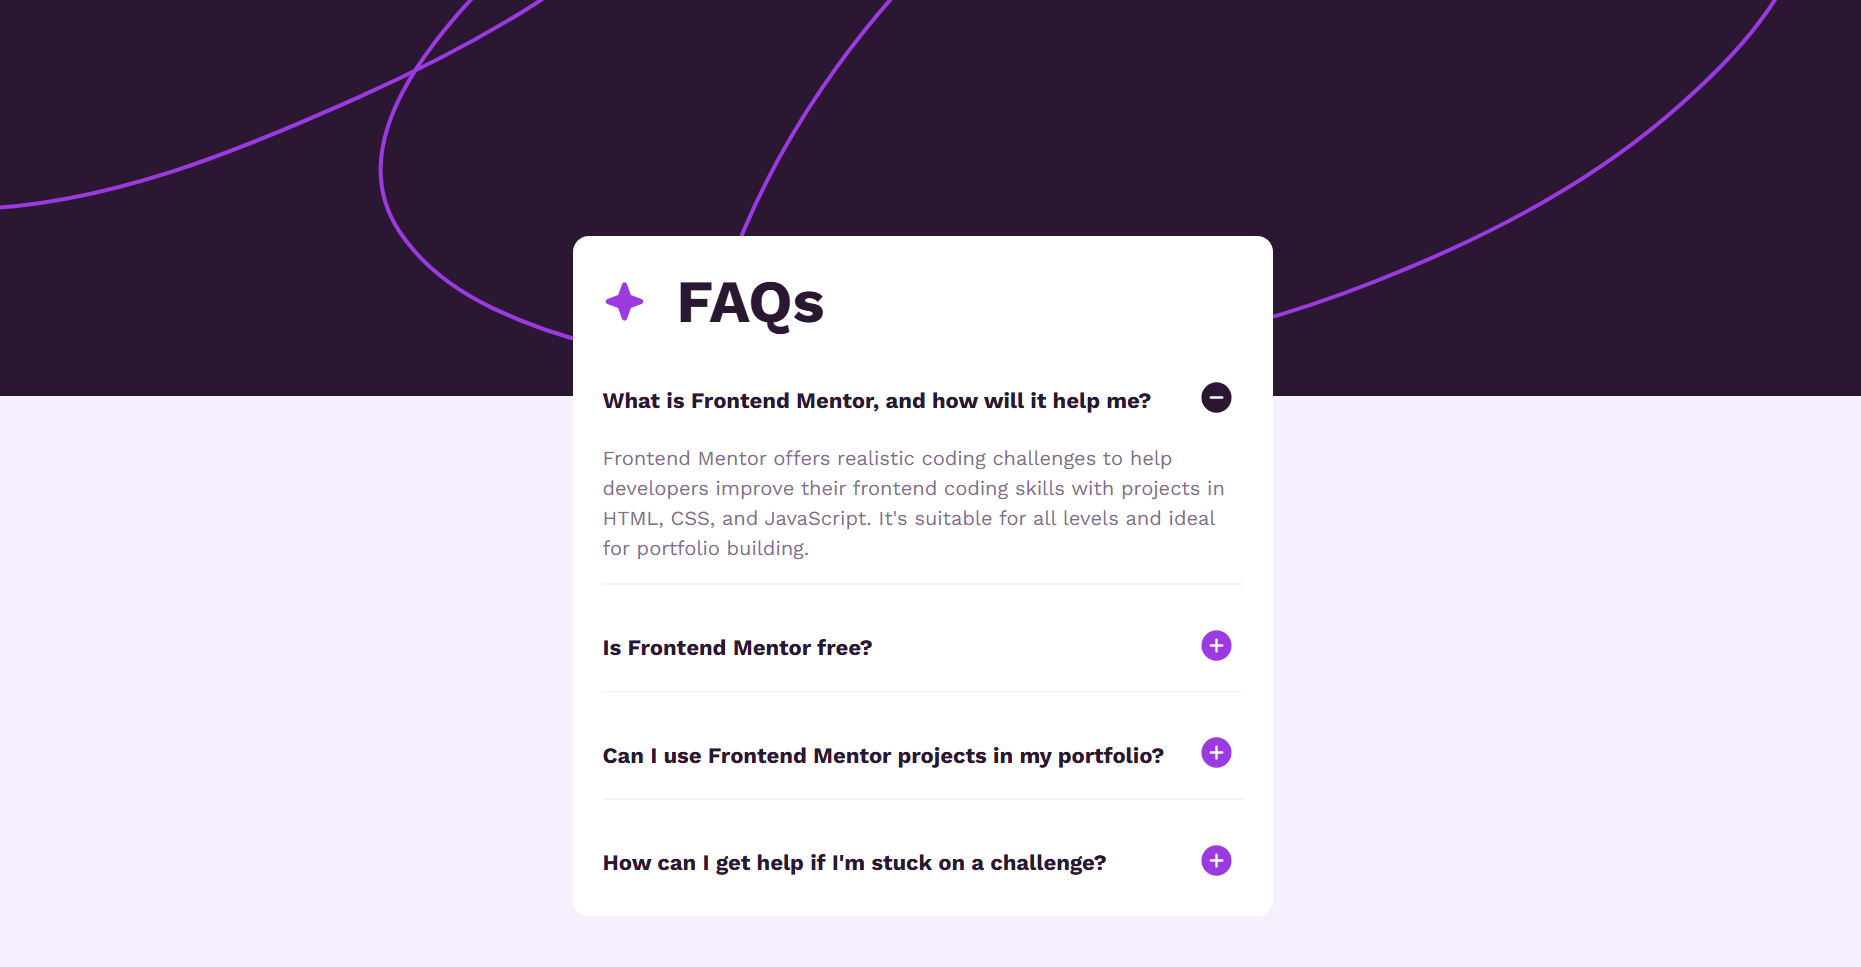
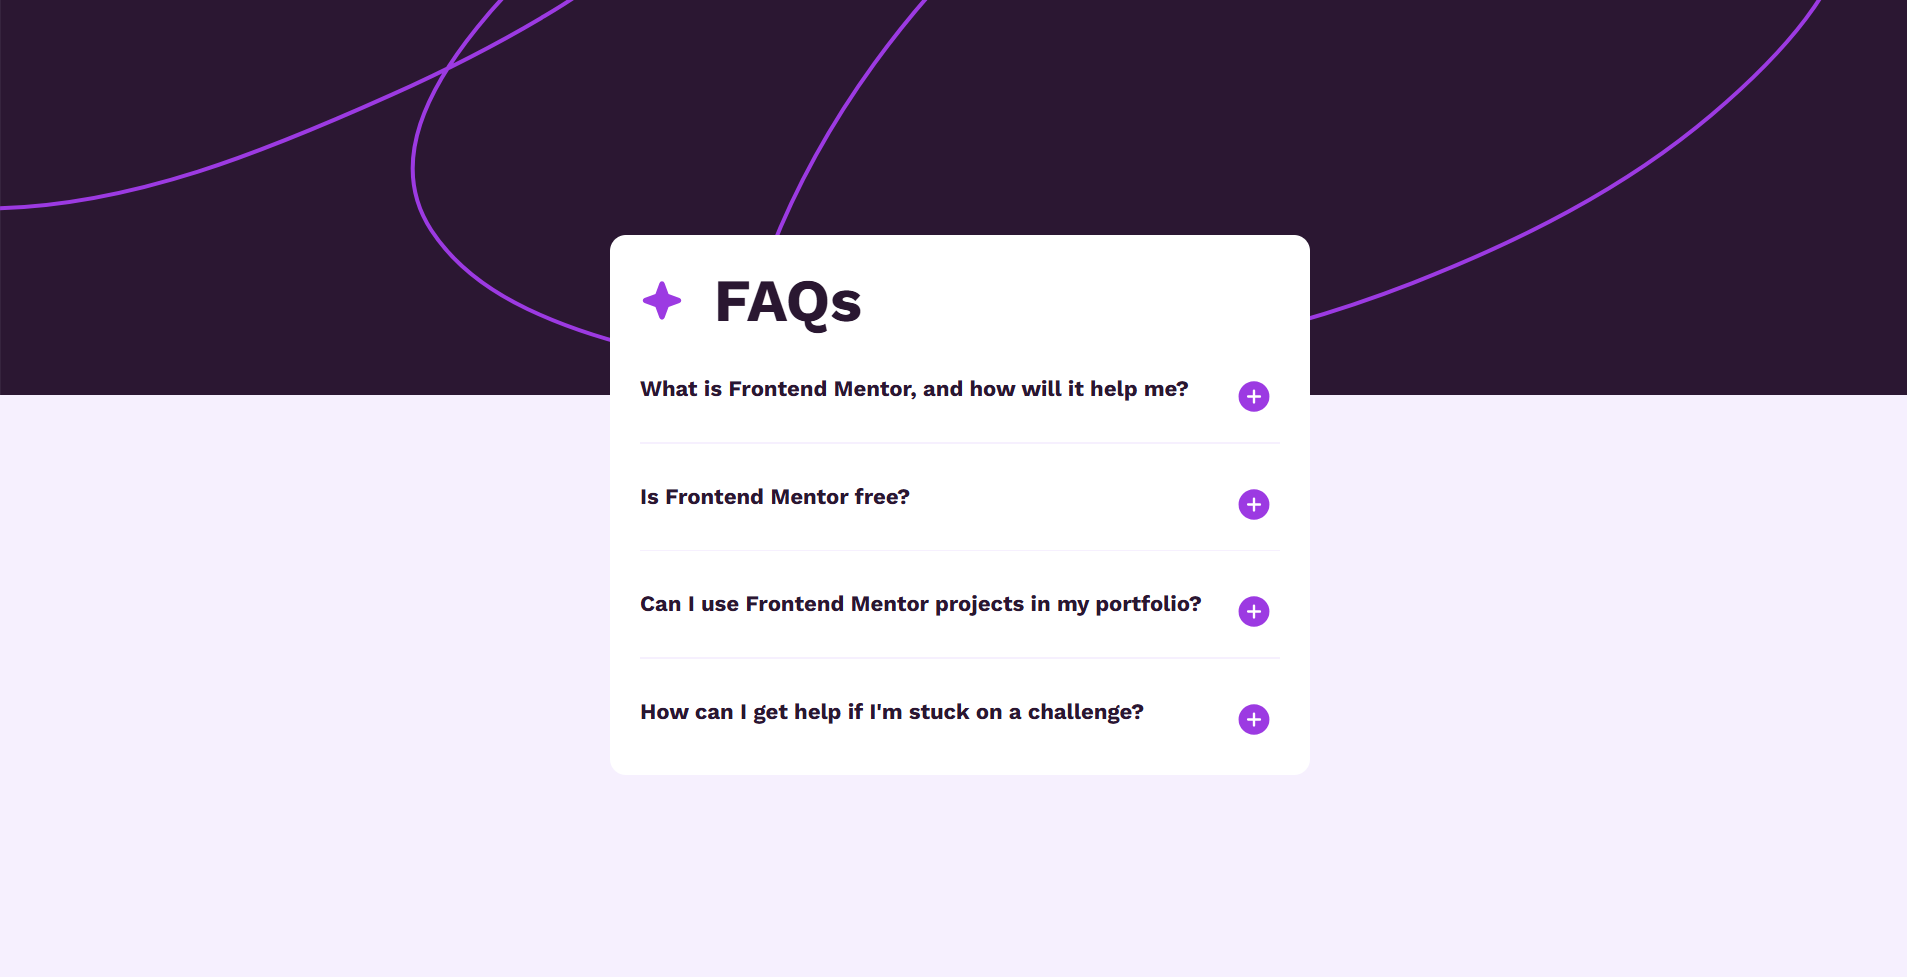
Update alt text + styling + screenshot

diff --git a/index.html b/index.html
@@ -32,7 +32,7 @@
         <div class="faq-question">
           <a href="#"><h2 class="toggle-btn">What is Frontend Mentor, and how will it help me?</h2></a>
           <button class="toggle-btn">
-            <img src="assets/images/icon-plus.svg" alt="">
+            <img src="assets/images/icon-plus.svg" alt="Plus Image">
           </button>
         </div>
         <p class="answer">
@@ -46,7 +46,7 @@
         <div class="faq-question">
           <a href="#"><h2 class="toggle-btn">Is Frontend Mentor free?</h2></a>
           <button class="toggle-btn">
-            <img src="assets/images/icon-plus.svg" alt="">
+            <img src="assets/images/icon-plus.svg" alt="Plus Image">
           </button>
         </div>
         <p class="answer">
@@ -59,7 +59,7 @@
         <div class="faq-question">
           <a href="#"><h2 class="toggle-btn">Can I use Frontend Mentor projects in my portfolio?</h2></a>
           <button class="toggle-btn">
-            <img src="assets/images/icon-plus.svg" alt="">
+            <img src="assets/images/icon-plus.svg" alt="Plus Image">
           </button>
         </div>
         <p class="answer">
@@ -72,7 +72,7 @@
         <div class="faq-question">
           <a href="#"><h2 class="toggle-btn">How can I get help if I'm stuck on a challenge?</h2></a>
           <button class="toggle-btn">
-            <img src="assets/images/icon-plus.svg" alt="">
+            <img src="assets/images/icon-plus.svg" alt="Plus Image">
           </button>
         </div>
         <p class="answer">

diff --git a/styles.css b/styles.css
@@ -155,7 +155,7 @@ main{
 
 
 
-@media (min-width: 400px){
+@media (min-width: 25rem){
 
   .background-img-container{
     height: 20rem;